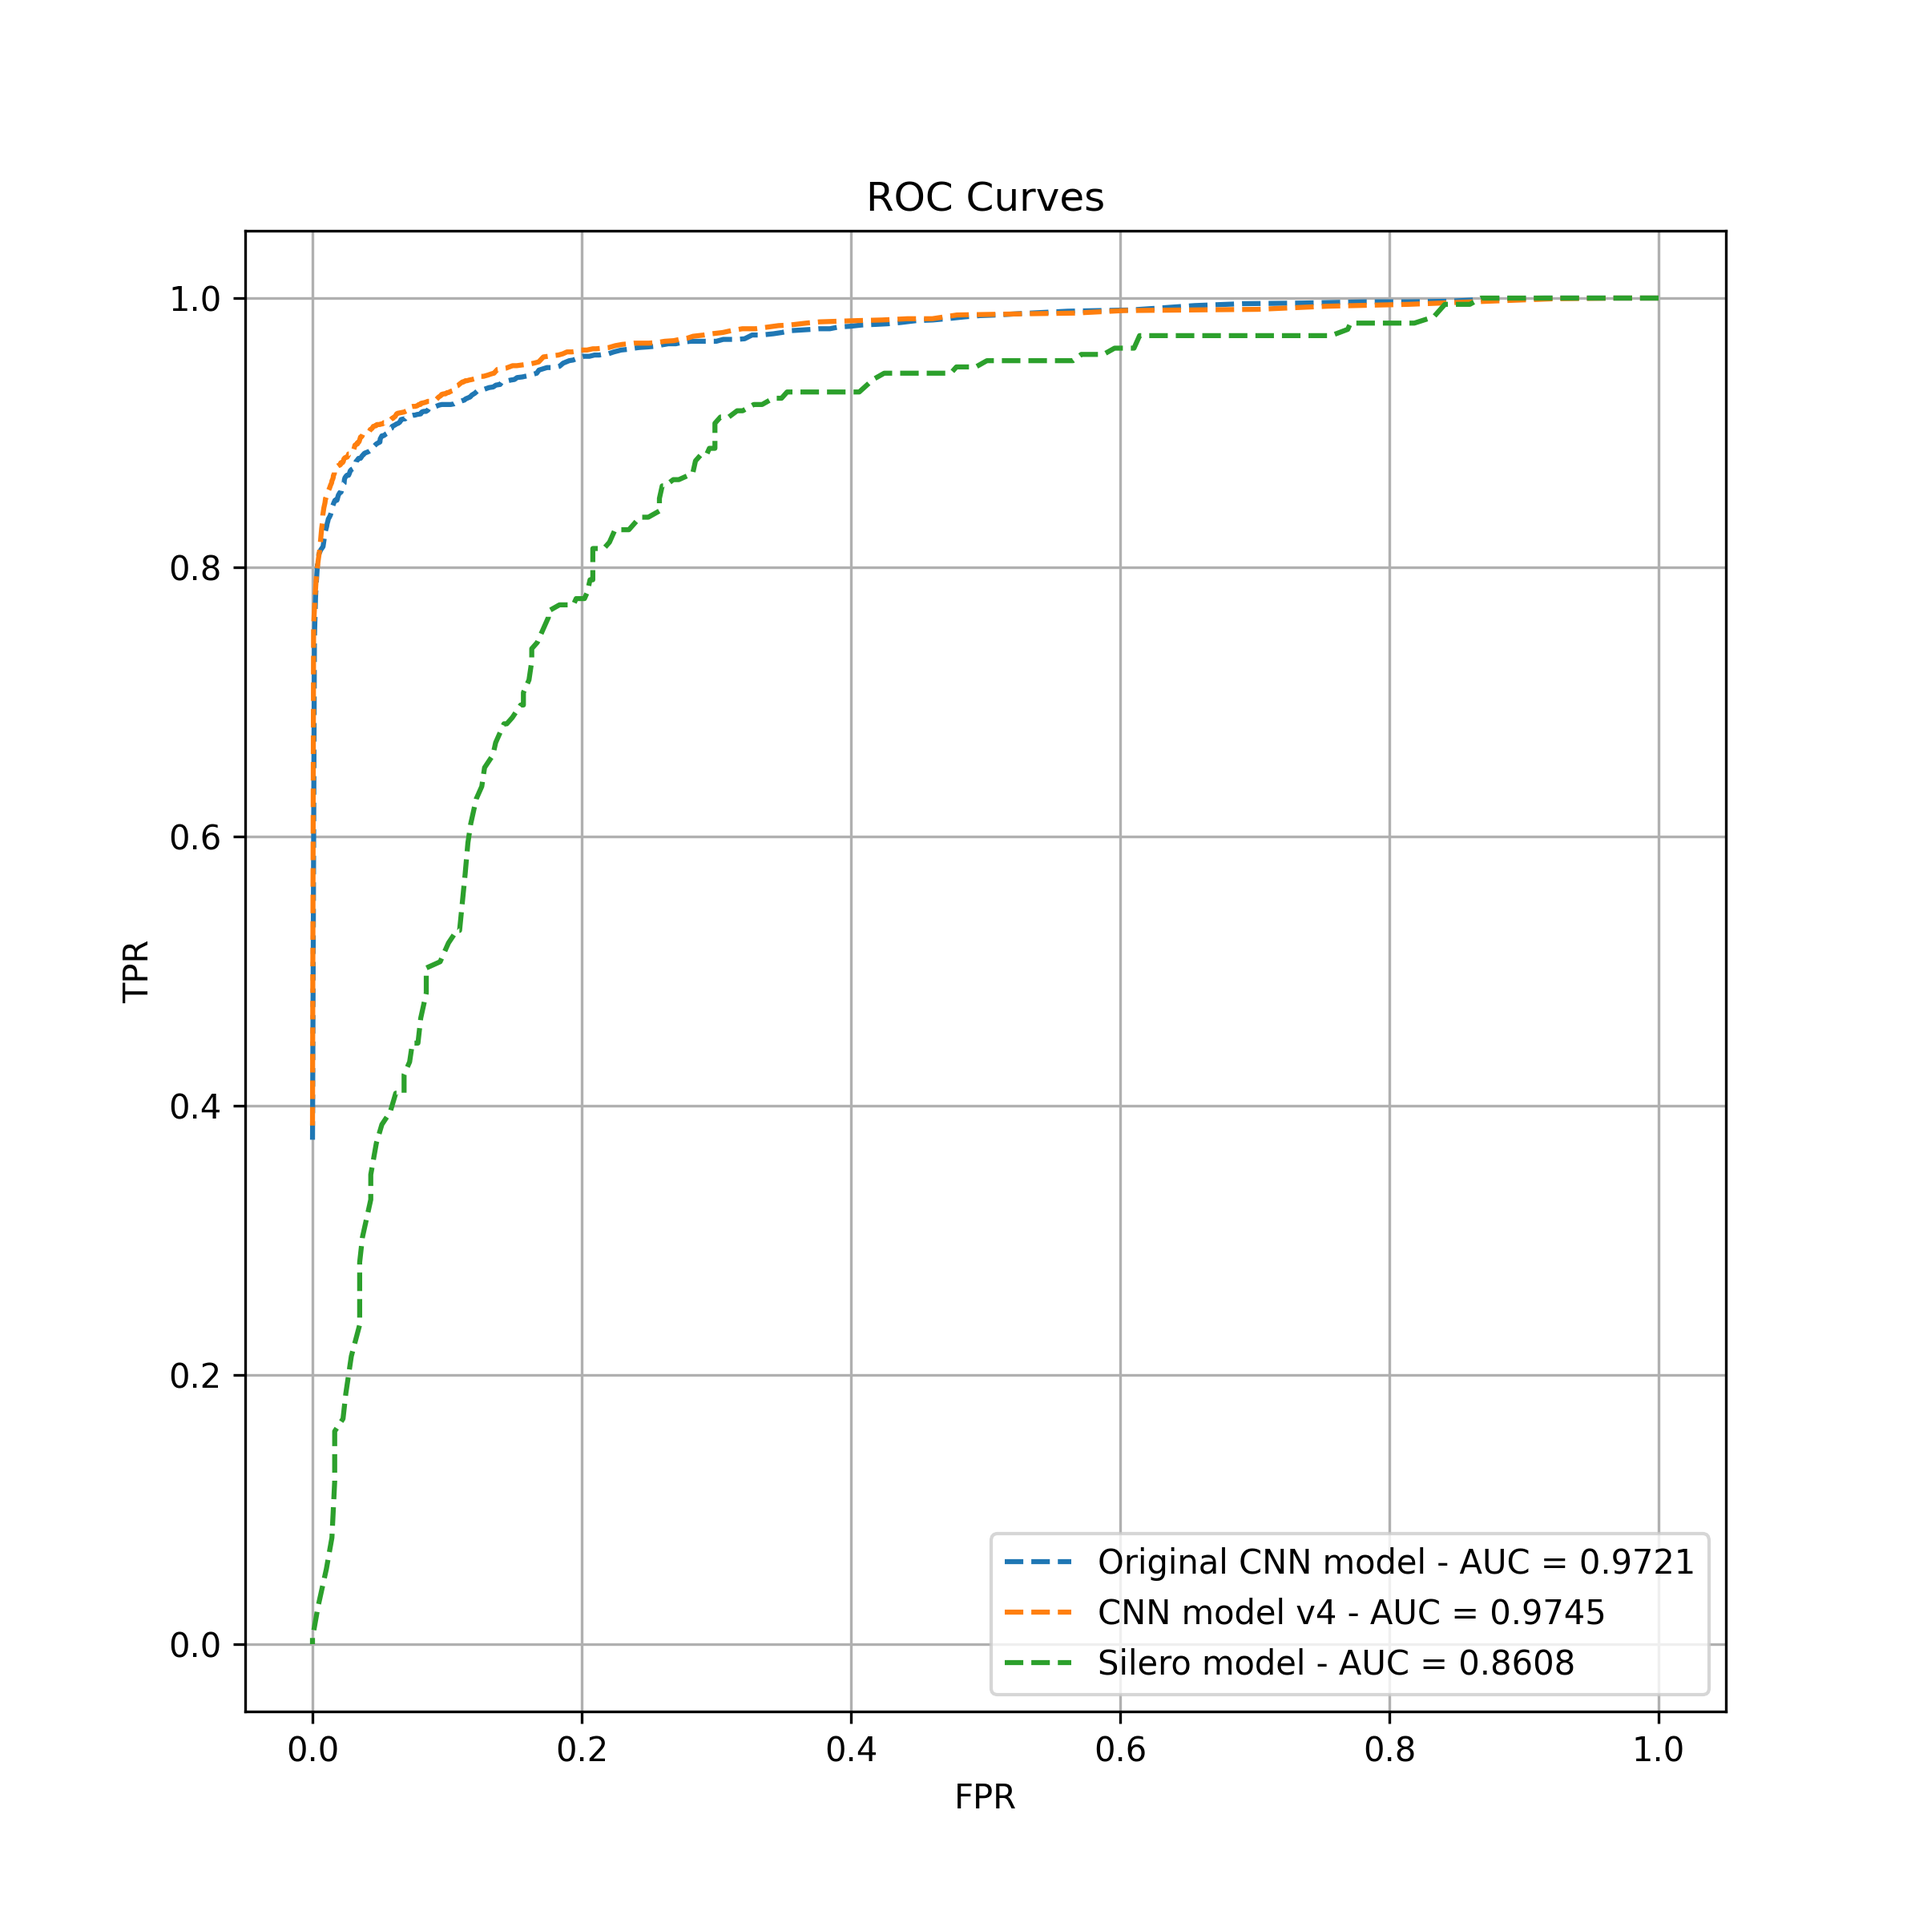
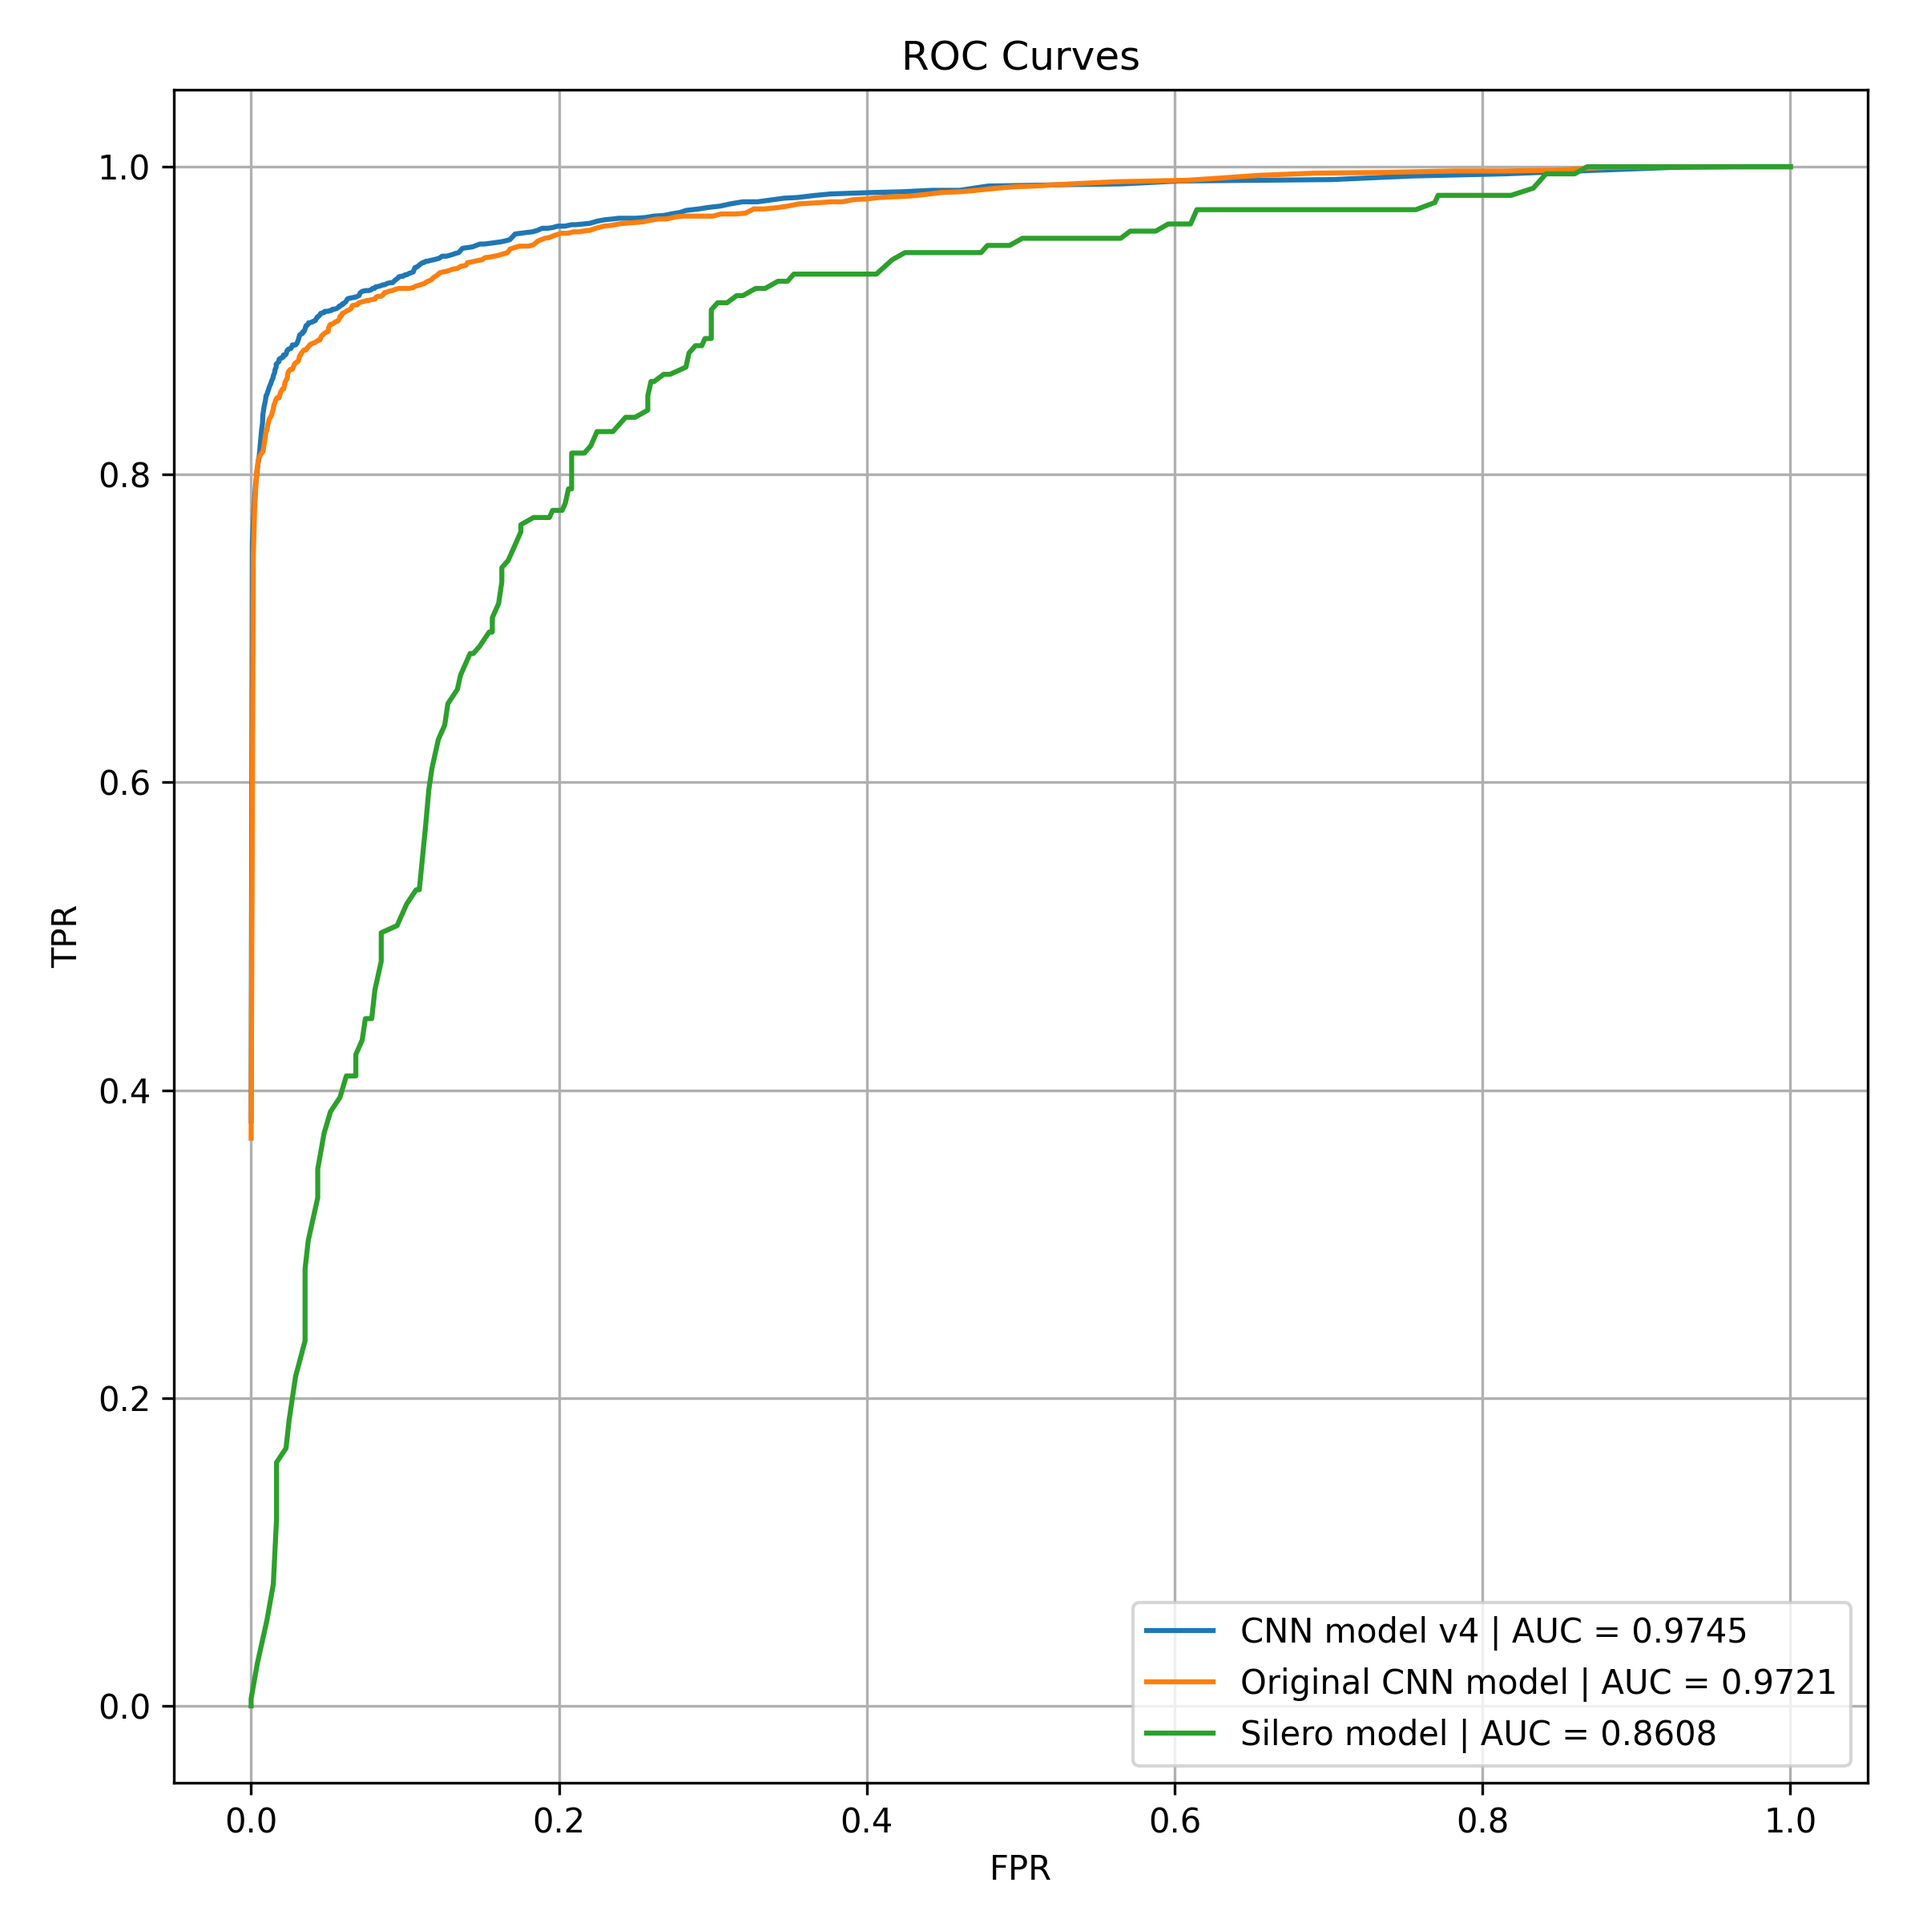
modified auc roc plot for better looking plots

diff --git a/src/evaluation/__init__.py b/src/evaluation/__init__.py
@@ -15,9 +15,9 @@ def execute_evaluation():
     labels_silero = np.load('data/output/prediction_audio_clip_2/other_model_predictions/silero_labels17200.npy')
     preds_silero = np.load('data/output/prediction_audio_clip_2/other_model_predictions/silero_preds17200.npy')
 
-    labels_list = [labels_original, labels_model_v4, labels_silero]
-    preds_list = [preds_original, preds_model_v4, preds_silero]
-    model_names = ['Original CNN model', 'CNN model v4', 'Silero model']
+    labels_list = [labels_model_v4, labels_original, labels_silero]
+    preds_list = [preds_model_v4, preds_original, preds_silero]
+    model_names = ['CNN model v4', 'Original CNN model', 'Silero model']
 
     auc_roc_plot(labels_list, preds_list, model_names)
 

diff --git a/src/evaluation/metrics.py b/src/evaluation/metrics.py
@@ -48,7 +48,7 @@ def auc_roc_plot(labels_list, preds_list, model_names, N=200):
 
         auc_value = roc_auc_score(labels, preds)
 
-        plt.plot(fpr, tpr, label=f'{model_names[i]} - AUC = {auc_value:.4}', linestyle='--')
+        plt.plot(fpr, tpr, label=f'{model_names[i]} | AUC = {auc_value:.4f}')
 
     plt.gca().set_aspect('equal', adjustable='box')
     plt.title("ROC Curves")
@@ -56,6 +56,7 @@ def auc_roc_plot(labels_list, preds_list, model_names, N=200):
     plt.ylabel("TPR")
     plt.legend()
     plt.grid()
+    plt.tight_layout()
     plt.savefig('images/roc_curves.png', dpi=300)
 
 
